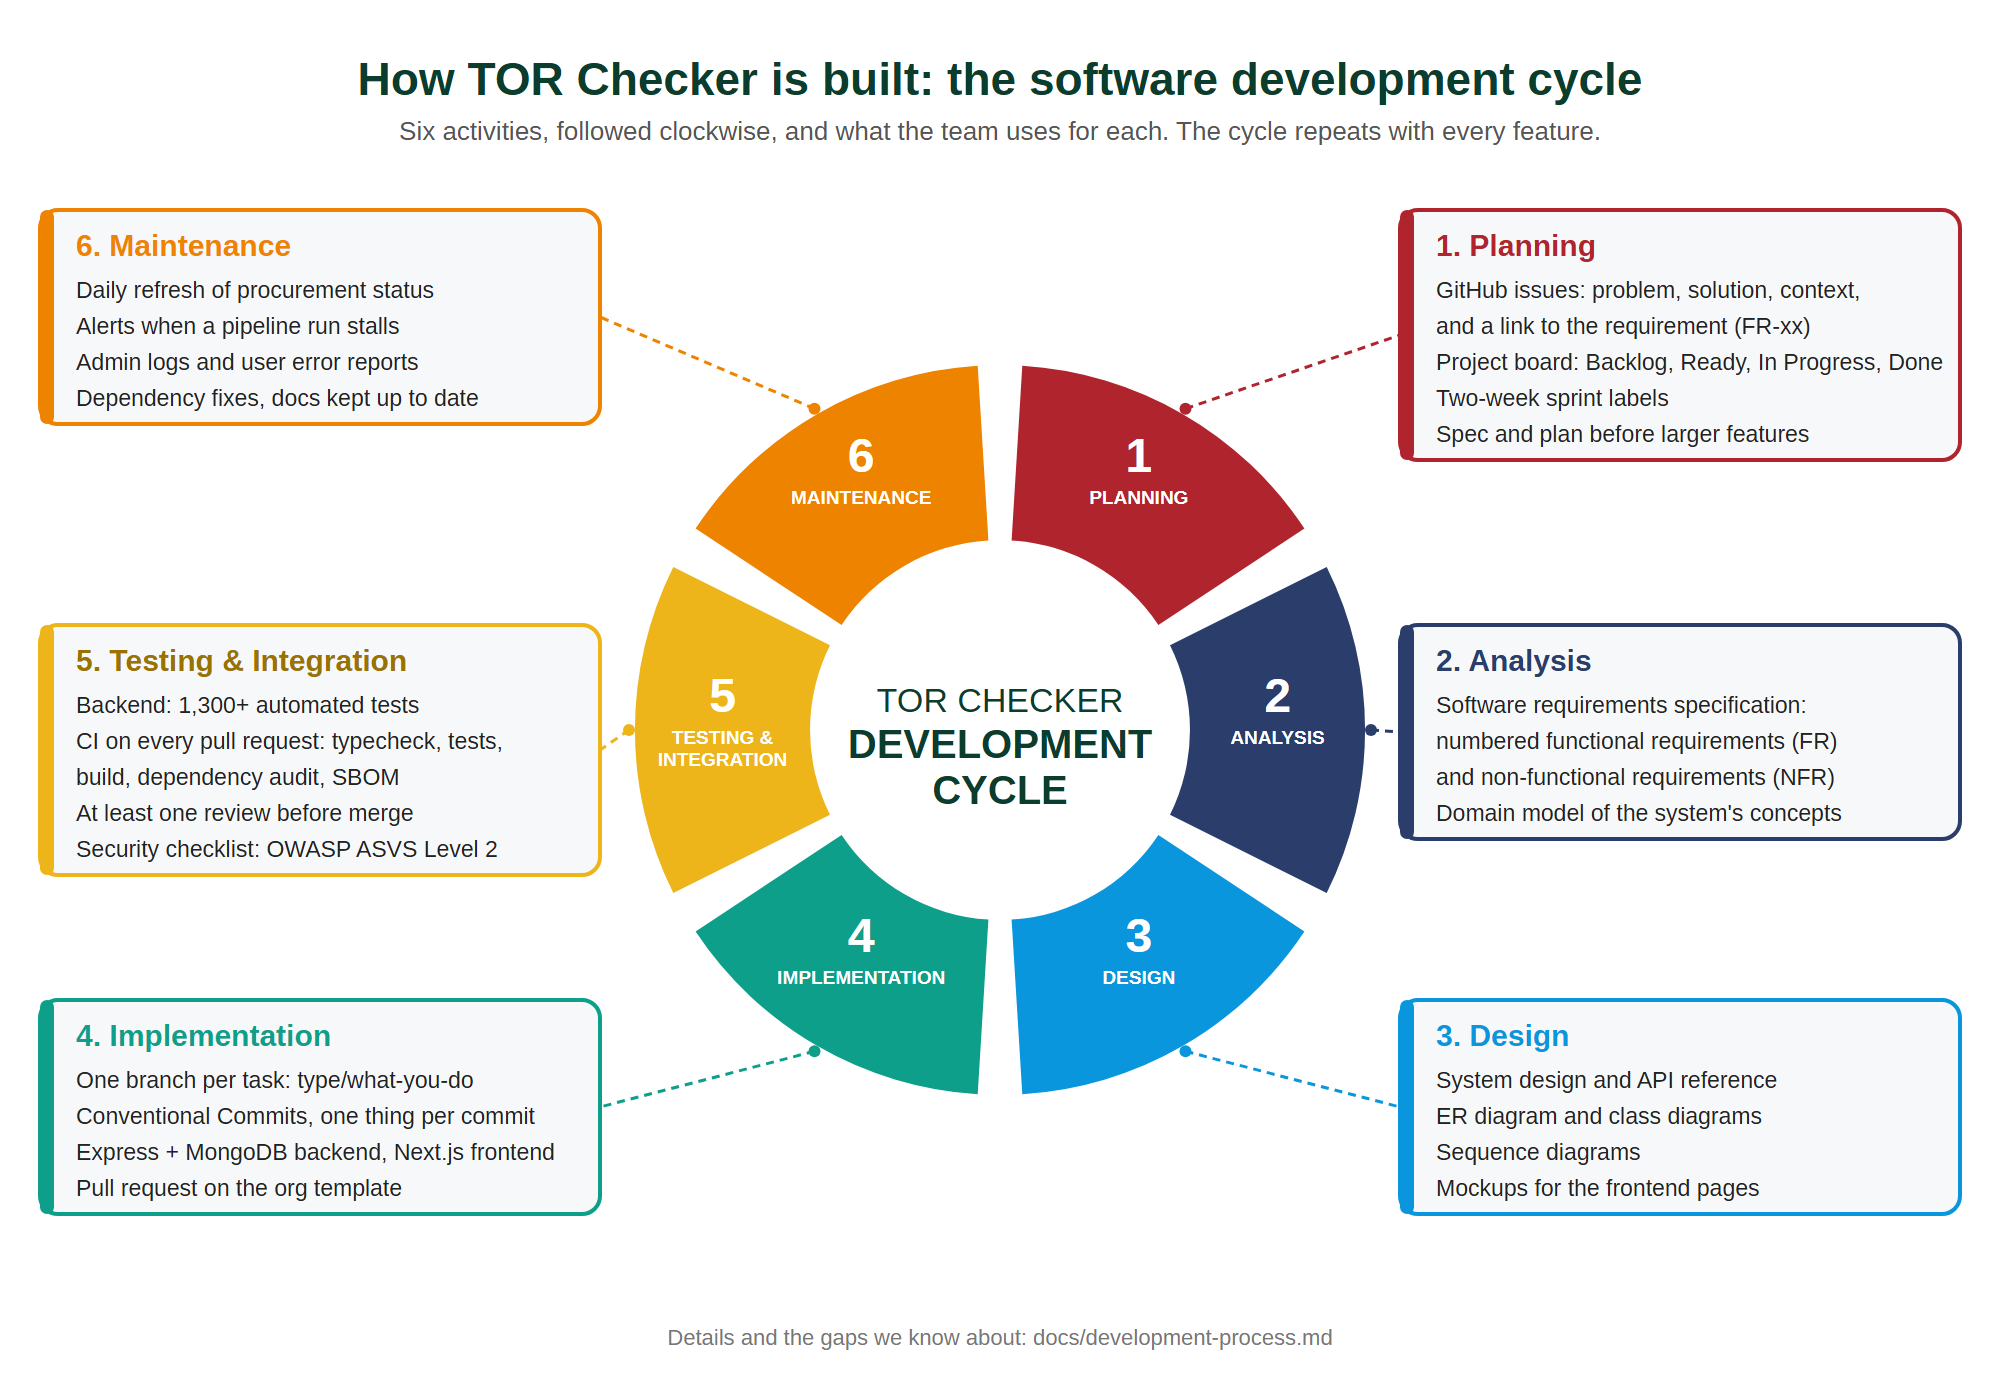
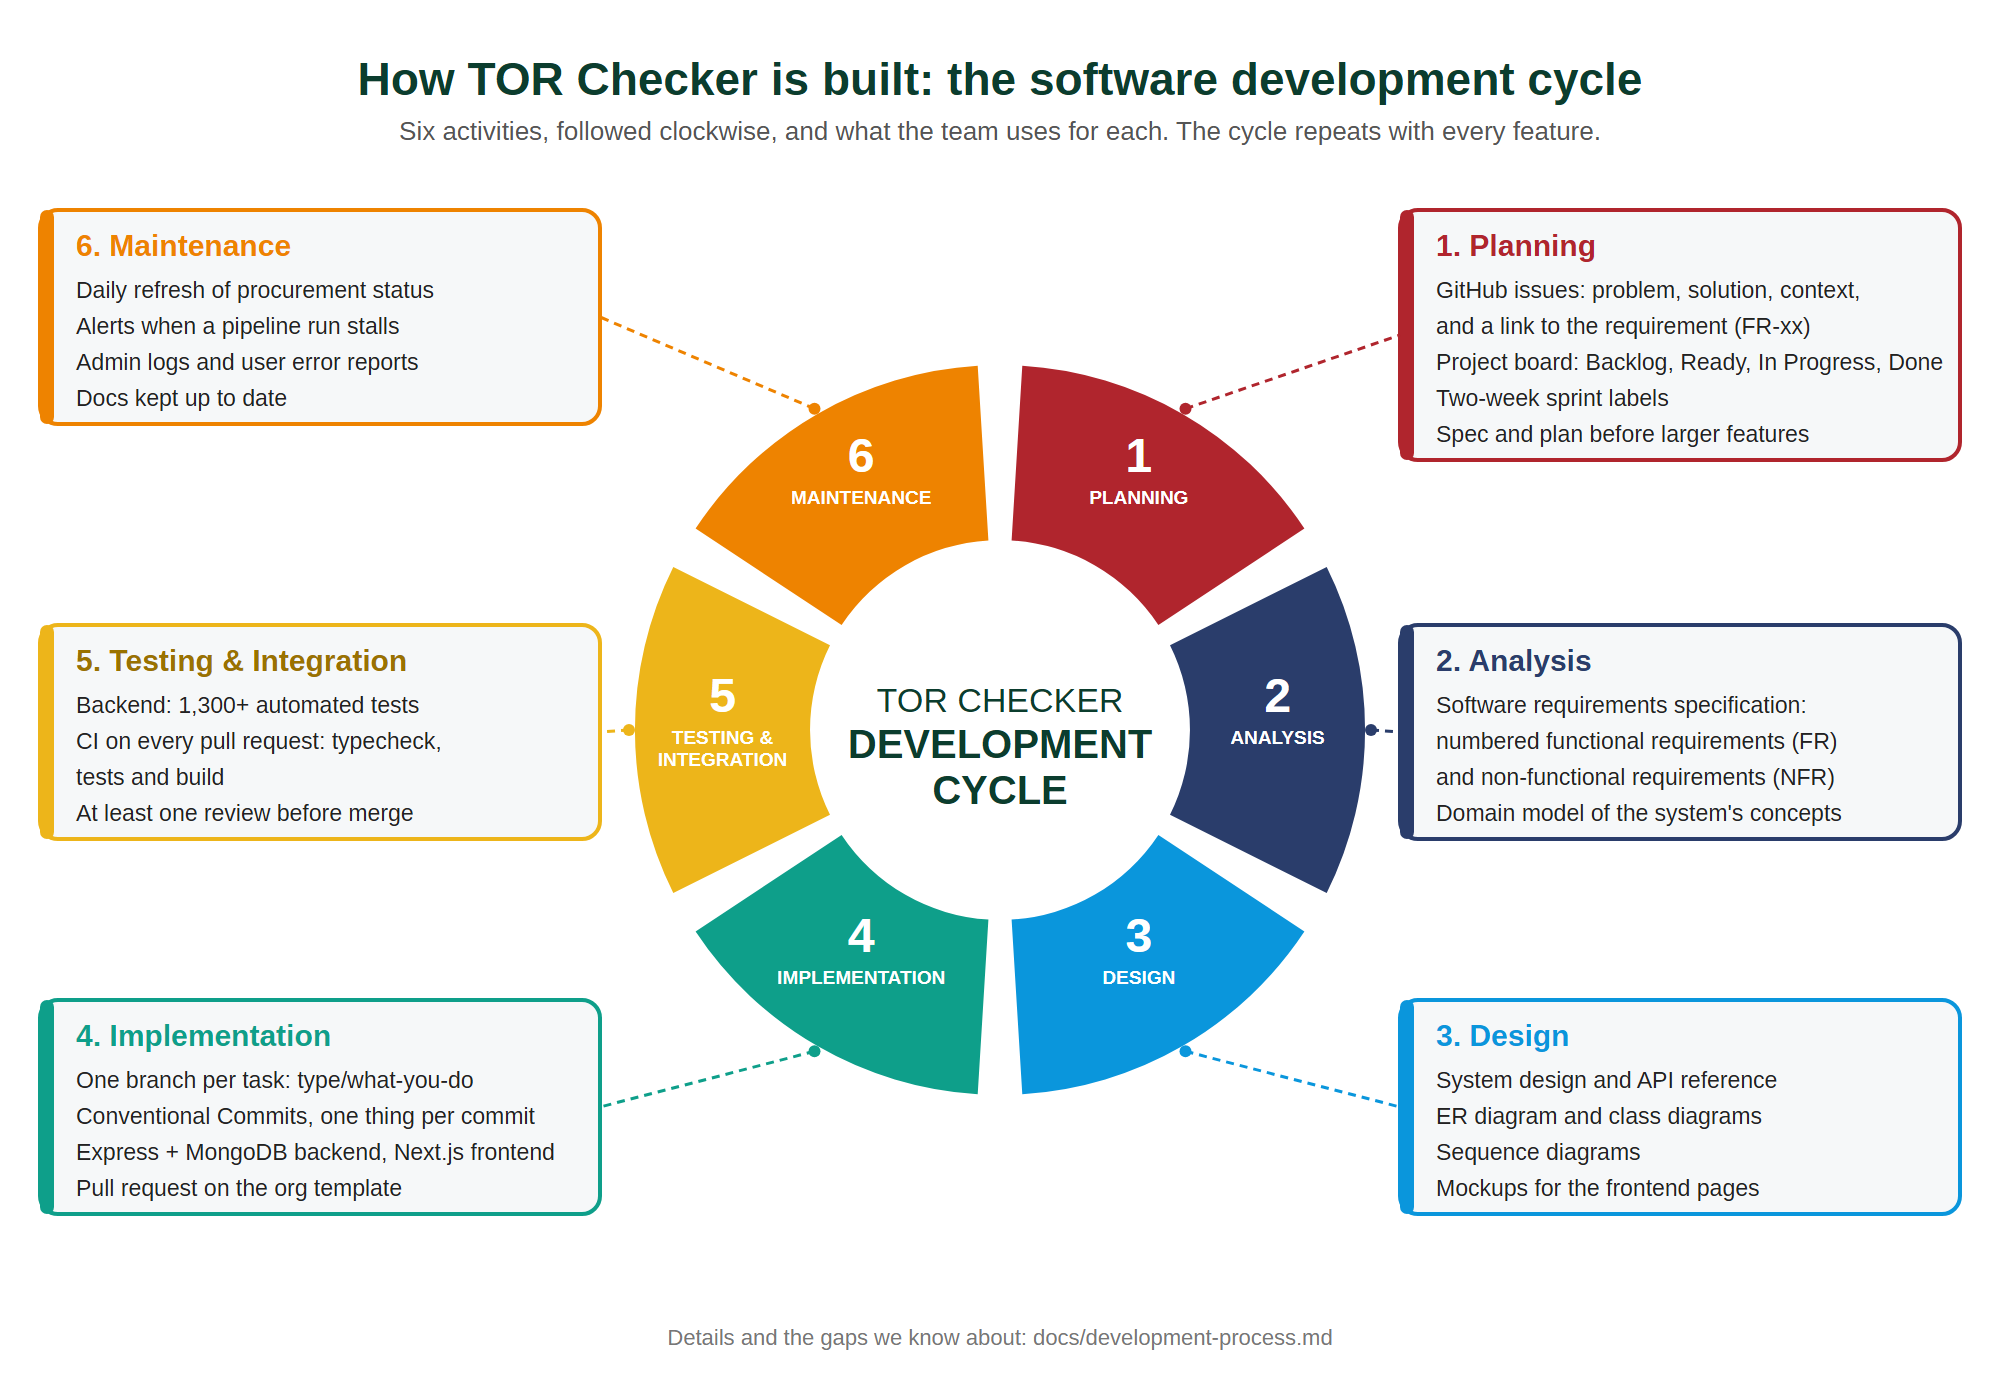
docs: leave security out of the development process

diff --git a/docs/development-process.md b/docs/development-process.md
@@ -16,8 +16,8 @@ The cycle is not run once. The project started on 9 August 2026 and has since ha
 | 2 | Analysis | A requirements specification with numbered functional and non-functional requirements | The SRS, and the [domain model](design/domain-model.md) |
 | 3 | Design | System, data, class and sequence diagrams, an API reference, a design spec for larger features | [`docs/design/`](design/README.md) and [`docs/superpowers/`](superpowers) |
 | 4 | Implementation | A branch per task, Conventional Commits, pull requests with a template | [`CONTRIBUTING.md`](../CONTRIBUTING.md) and the code |
-| 5 | Testing and integration | Backend tests, CI on every pull request, a review before merge, a security checklist | [`.github/workflows/`](../.github/workflows), [`docs/security/`](security/README.md) |
-| 6 | Maintenance | Scheduled refresh jobs, alerts, logs, user error reports, dependency fixes | [`docs/deployment/gcp.md`](deployment/gcp.md), the admin panel |
+| 5 | Testing and integration | Backend tests, CI on every pull request, a review before merge | [`.github/workflows/`](../.github/workflows) and the backend tests |
+| 6 | Maintenance | Scheduled refresh jobs, alerts, logs, user error reports | [`docs/deployment/gcp.md`](deployment/gcp.md), the admin panel |
 
 ## 1. Planning
 
@@ -63,9 +63,8 @@ The backend is Express 5 with MongoDB, the frontend is Next.js, and both are Typ
 **What we do.**
 
 - **Tests.** The backend has 104 test files with more than 1,300 tests, running against an in-memory MongoDB so no database service is needed.
-- **Continuous integration.** [`ci.yml`](../.github/workflows/ci.yml) runs on every pull request into `main` and on every push to `main`. The backend job runs type checking, the tests and the build. Both jobs audit production dependencies (high and critical findings fail the run) and keep a software bill of materials.
+- **Continuous integration.** [`ci.yml`](../.github/workflows/ci.yml) runs on every pull request into `main` and on every push to `main`. The backend job runs type checking, the tests and the build, and the frontend job runs the build.
 - **Review.** 87 of the 89 pull requests have at least one review, as `CONTRIBUTING.md` requires. Pull request #173 below, for example, was approved and merged by a teammate, not by its author.
-- **Security.** The project is checked against OWASP ASVS 5.0 at Level 2, with a [checklist](security/asvs-checklist.md) that links each requirement to code and test evidence.
 
 **Missing.**
 
@@ -79,8 +78,7 @@ The backend is Express 5 with MongoDB, the frontend is Next.js, and both are Typ
 
 - A daily lifecycle job re-checks open TORs on e-GP and updates their stage and bid deadline.
 - A stalled-runs job marks pipeline runs that stopped making progress as failed and alerts every admin in the admin panel and by email.
-- Admins read the system and audit logs, and users can report wrong data on a TOR. Admins correct it and close the report from a queue.
-- Dependency advisories are fixed as they appear (for example the pull request that upgraded the vulnerable packages), under the [third-party component policy](security/dependency-management.md).
+- Admins read the system logs, and users can report wrong data on a TOR. Admins correct it and close the report from a queue.
 - Deployment steps and schedules are in [`docs/deployment/gcp.md`](deployment/gcp.md).
 
 **Missing.** There is no automated deployment: the guide uses `gcloud` commands, so releasing is a manual step. Vendors get match alerts, but nothing in the code sends deadline reminders yet, although the notification type exists.
